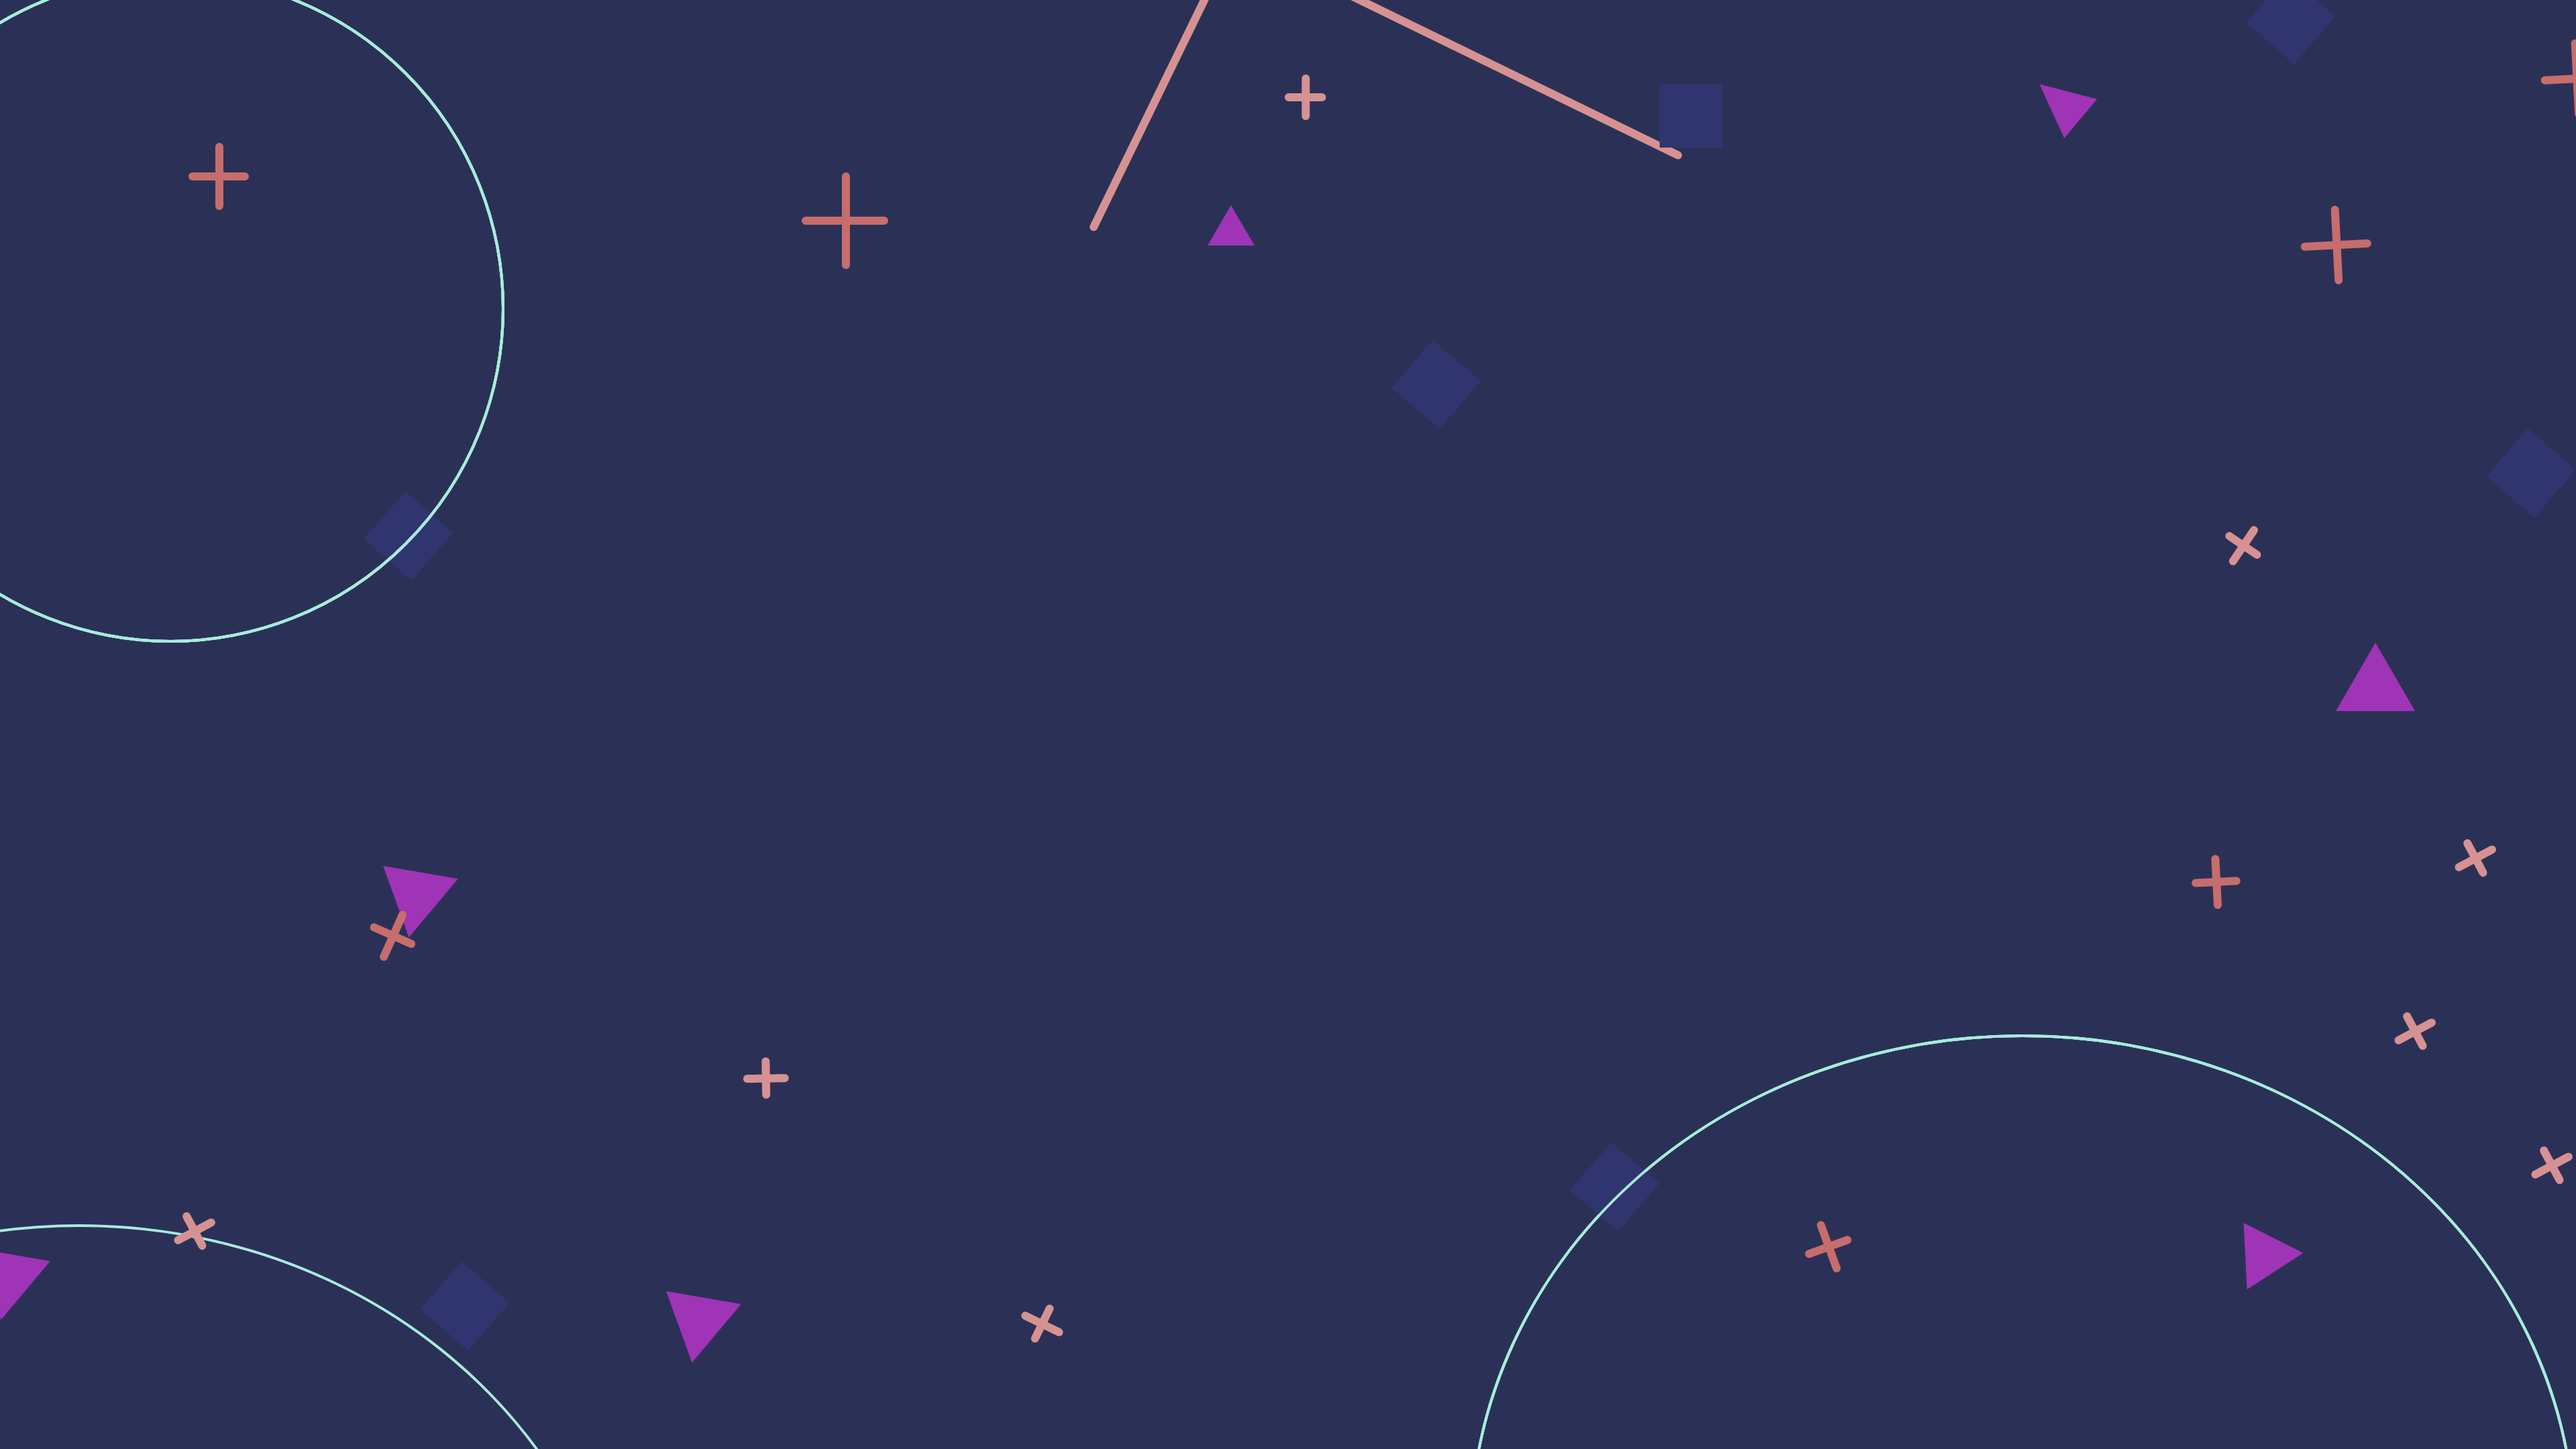
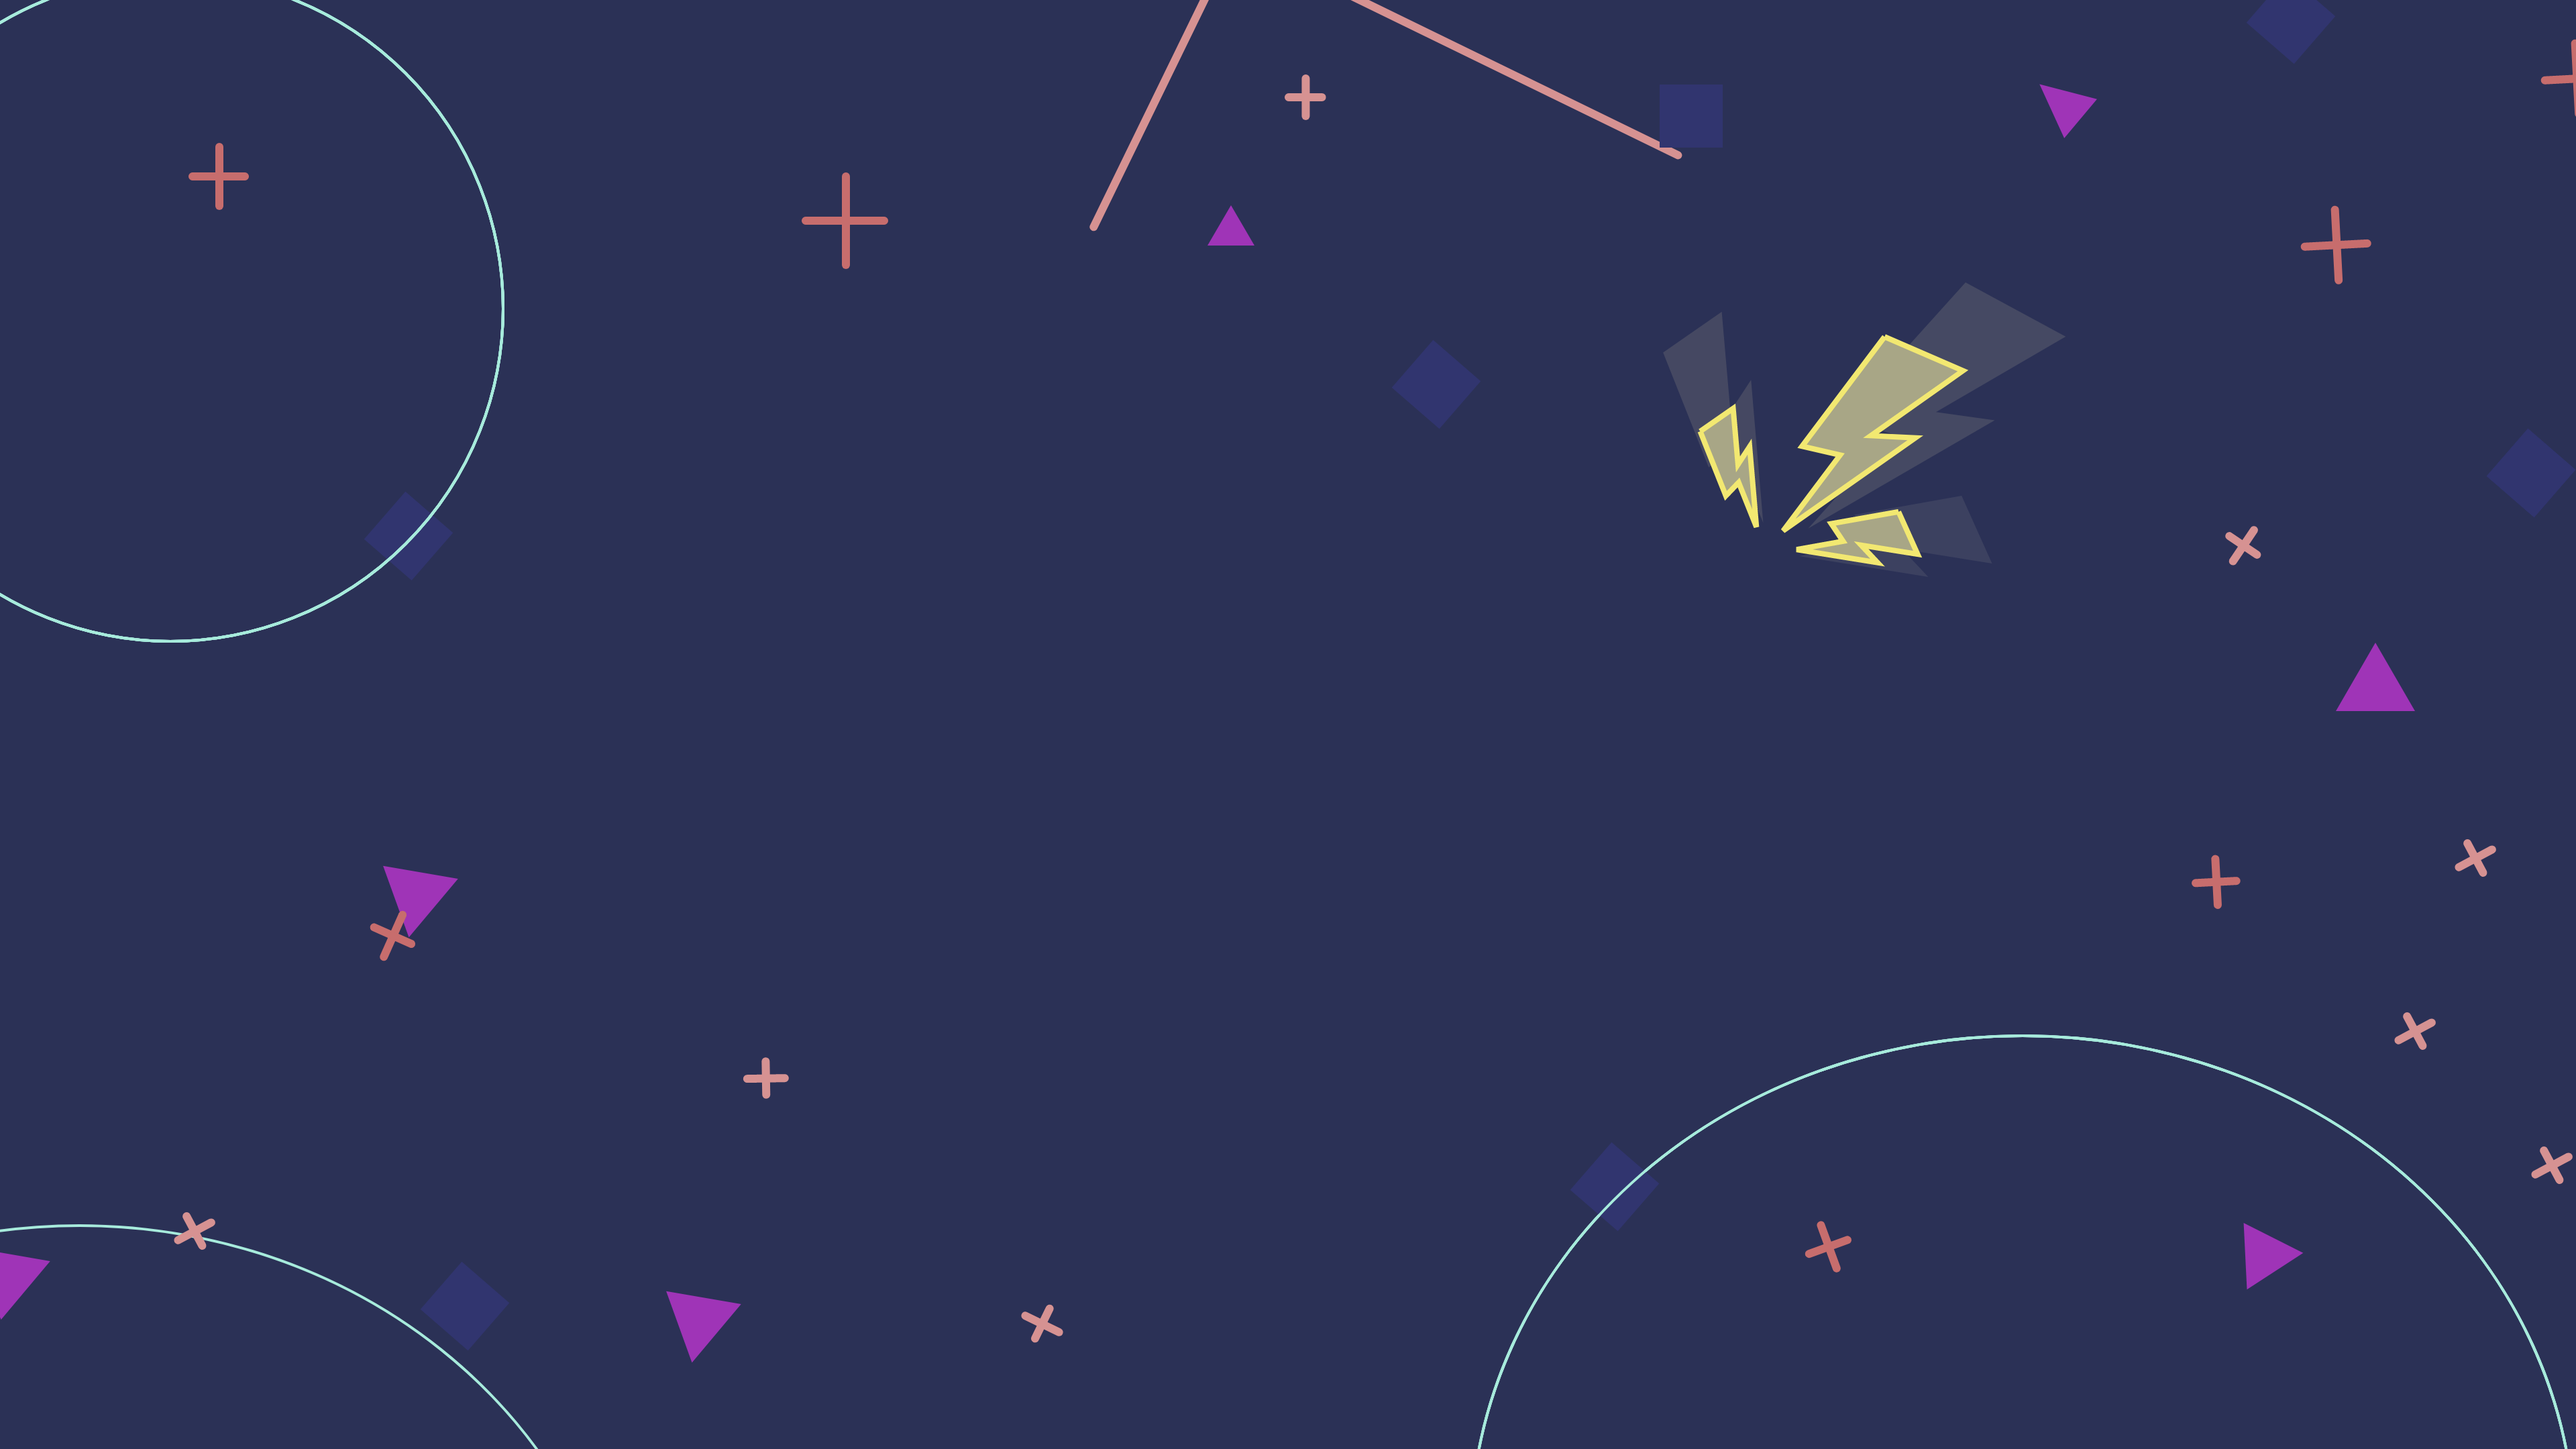
Formatted the Landing Page, added background image, text and button

Changed region(s): [[0.625, 0.1861, 0.8125, 0.4032]]

diff --git a/styles/landing-page.css b/styles/landing-page.css
@@ -1,34 +1,81 @@
+ /*--------------------- Fonts --------------------------------------------- */
+
+ @import url("https://use.typekit.net/luk6ots.css");
+ @import url('https://fonts.googleapis.com/css2?family=Exo:wght@300;400;500&display=swap');
 
 
-
-/* Landing Page */
-html {
-    background-color: #2B3156;
-    background-image: url('../images/hero-image-desktop.png');
-    background-position: center;
-    background-size: cover;
-    background-attachment: fixed;
-
-    z-index: 2;
-
-    position: relative;
-}
+/*---------------------- Universal style accross all pages ----------------- */
 
 body {
+    margin: 0;
+    background-color: #2B3256;
+    font-family: sans-serif;
+    font-size: 16px;
+}
+
+/*---------------------- Landing Page -------------------------------------- */
+
+#landing-pg {
+    height: 100vh;
+    width: 100vw;
+    display: flex;
+    justify-content: center;
+    align-items: center;
+    background: url('../images/hero-image-desktop-no.png') center center / cover no-repeat fixed;
+}
+
+#landing-pg-container {
+    text-align: center;
+    width: 80%;
     background-image: url('../images/lightning-bolts.svg');
-    z-index: 1;
-}
-
-h1 {
-    position: absolute;
-    top: -50%;
-    left: 50%;
-}
-
-button {
-    position: absolute;
+    background-position: 85% 25%;
+    background-size: 20%;
+    background-repeat: no-repeat;
+    background-attachment: fixed;
 }
 
 #landing-text {
-   color: yellow; 
+    font-family: 'neon-stream', sans-serif;
+    font-size: 8rem;
+    color: #F2E871;
+    text-shadow: 10px 10px 40px #EFEAE2D6;
+    margin-bottom: 50px;
+    margin-top: 20%; 
+}
+
+
+h1#landing-text::before, h1#landing-text::after {
+    content: '';
+    height: 0.07em;
+    width: 50%;
+    background-color: #A7EBDC;
+    border-radius: 5px;
+    display: block;
+    margin: auto;
+}
+
+#landing-btn {
+    background-color: #A7EBDC;
+    padding: 0.7rem 0.85rem;
+    text-decoration: none;
+    color: #2B3256;
+    font-family: 'exo',sans-serif;
+    text-transform: uppercase;
+    font-size: 1.25rem;
+}
+
+#landing-btn:hover {
+    background-color: #2B3256;
+    color:#A7EBDC;
+    border: 1px solid #A7EBDC;
+}
+
+
+
+@media screen and (max-width:768px) {
+    #landing-text {
+        font-size: 15vw;
+    }
+
+
 }

diff --git a/home.html b/home.html
@@ -15,7 +15,7 @@
 
 <body>
     <h1>This is home</h1>
-
+    <a href="index.html">landing page</a>
     <script src="https://code.jquery.com/jquery-3.4.1.slim.min.js" integrity="sha384-J6qa4849blE2+poT4WnyKhv5vZF5SrPo0iEjwBvKU7imGFAV0wwj1yYfoRSJoZ+n" crossorigin="anonymous"></script>
     <script src="https://cdn.jsdelivr.net/npm/popper.js@1.16.0/dist/umd/popper.min.js" integrity="sha384-Q6E9RHvbIyZFJoft+2mJbHaEWldlvI9IOYy5n3zV9zzTtmI3UksdQRVvoxMfooAo" crossorigin="anonymous"></script>
     <script src="https://stackpath.bootstrapcdn.com/bootstrap/4.4.1/js/bootstrap.min.js" integrity="sha384-wfSDF2E50Y2D1uUdj0O3uMBJnjuUD4Ih7YwaYd1iqfktj0Uod8GCExl3Og8ifwB6" crossorigin="anonymous"></script>

diff --git a/index.html b/index.html
@@ -15,10 +15,10 @@
 
 
 <body>
-    <section class="landing-page">
-        <div class="">
+    <section id="landing-pg">
+        <div id="landing-pg-container">
             <h1 id="landing-text">Bored?</h1>
-            <button class="btn btn-info">Explore!</button>
+            <a class="btn" id="landing-btn" href="/home.html">Explore</a> <!--should I have  <a> inside of a button for more semantic code?-->
         </div>
     </section>
 
